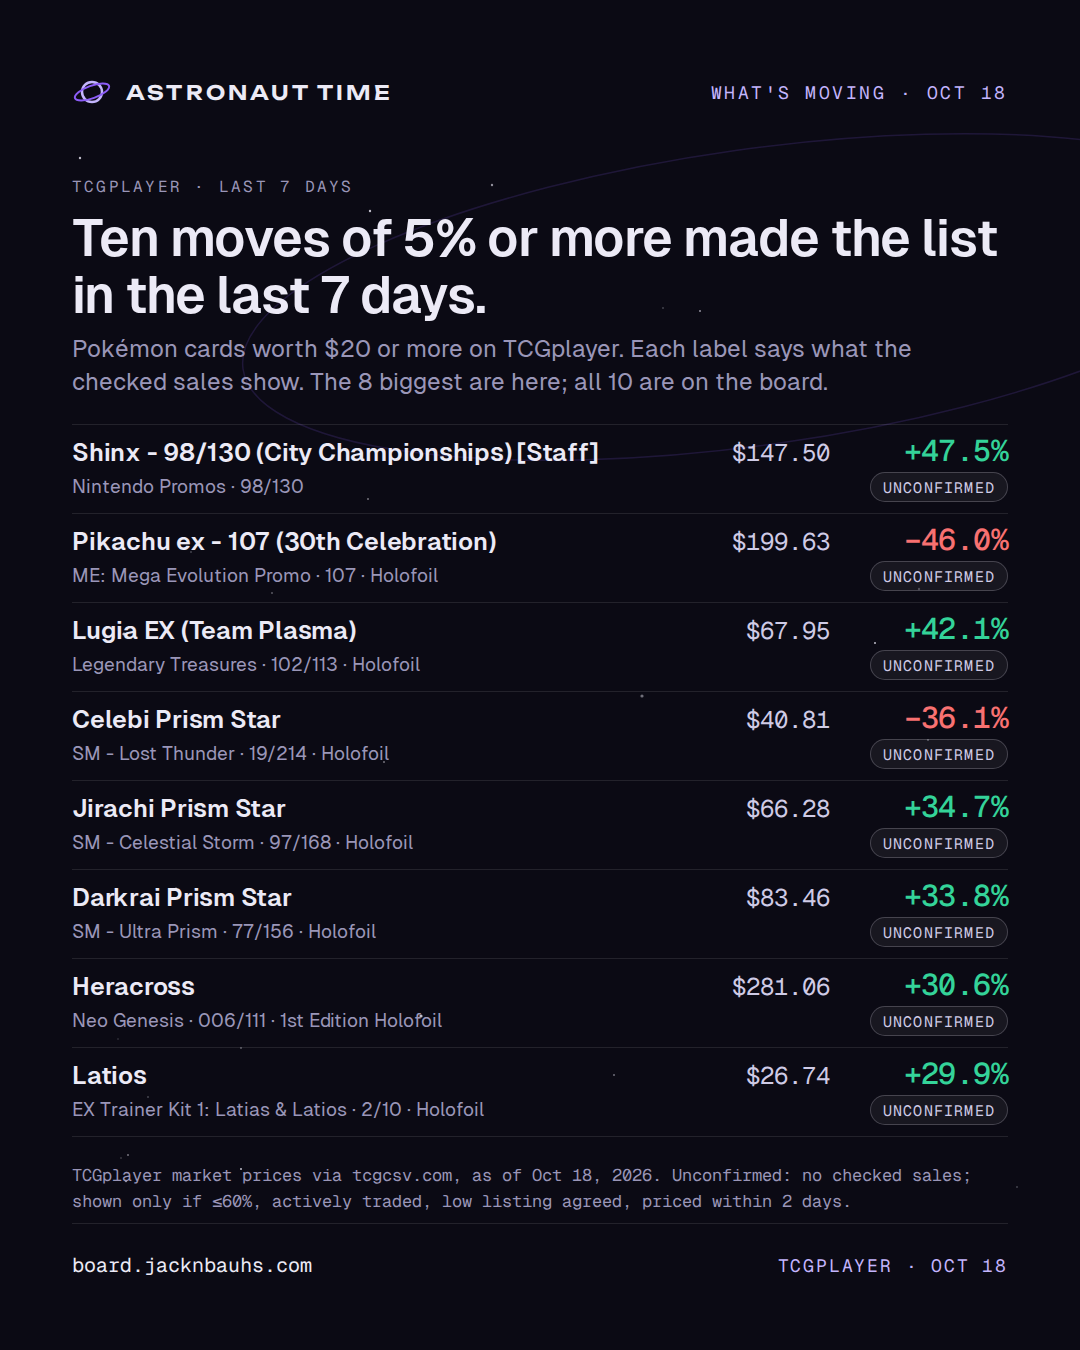
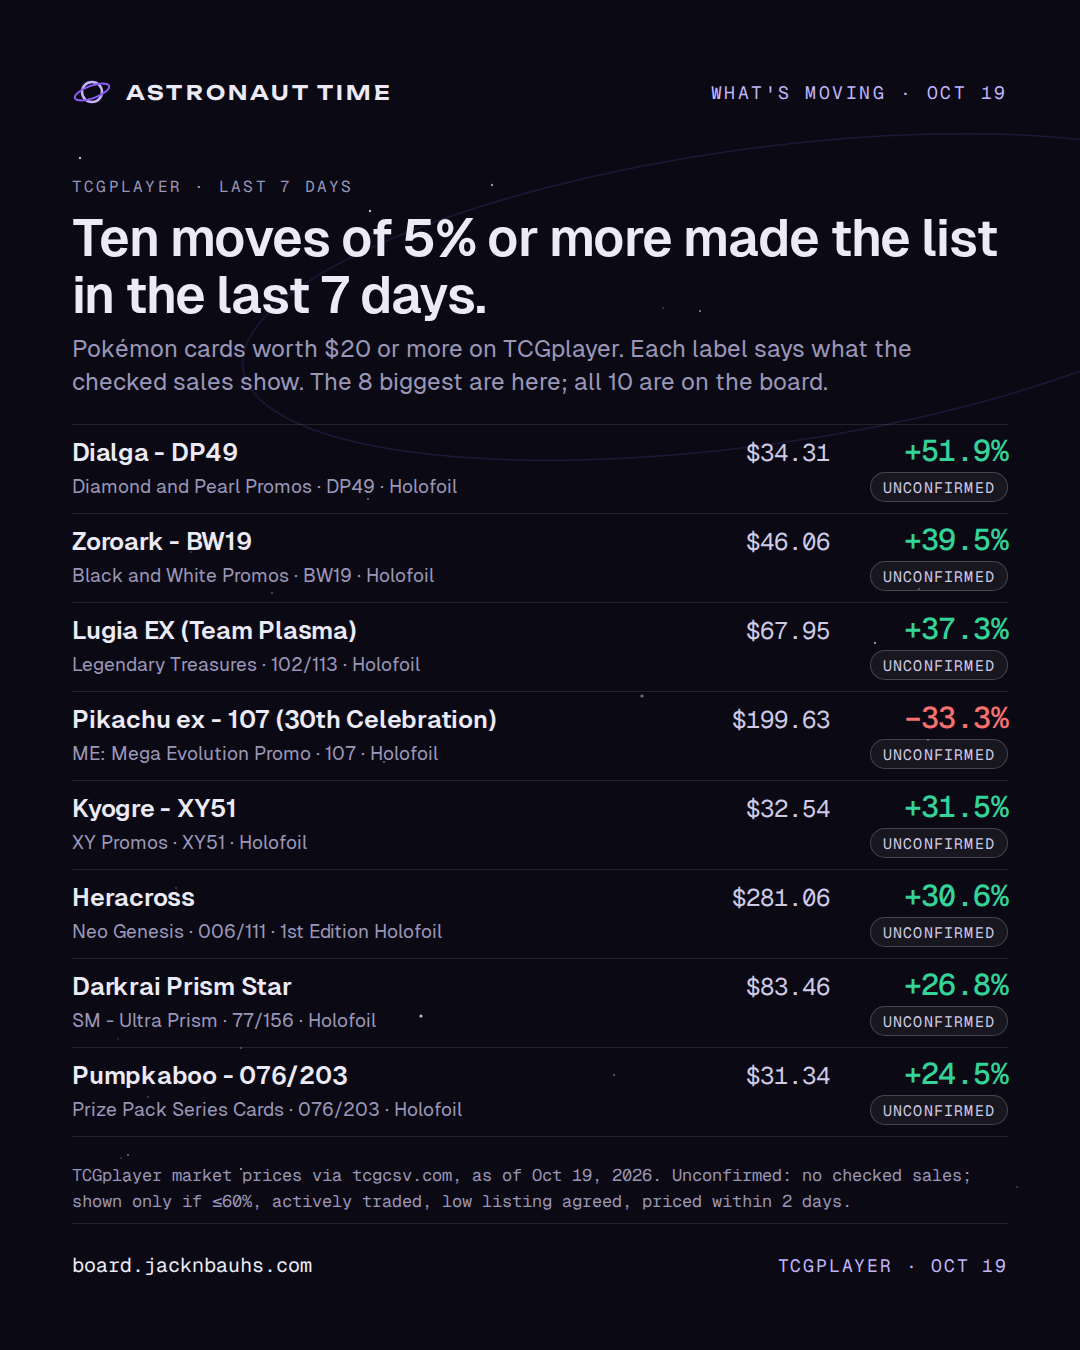
Share kit: render 2026-10-20

diff --git a/card.html b/card.html
@@ -10,14 +10,14 @@
 <meta property="og:url" content="https://board.jacknbauhs.com/card.html">
 <meta property="og:type" content="website">
 <meta property="og:site_name" content="Astronaut Time">
-<meta property="og:image" content="https://board.jacknbauhs.com/assets/og.png?v=2026-10-19">
+<meta property="og:image" content="https://board.jacknbauhs.com/assets/og.png?v=2026-10-20">
 <meta property="og:image:width" content="1200">
 <meta property="og:image:height" content="630">
 <meta property="og:image:alt" content="Mission Control by Astronaut Time: the card market, with the fake sales taken out.">
 <meta name="twitter:card" content="summary_large_image">
 <meta name="twitter:title" content="Card · Mission Control · Astronaut Time">
 <meta name="twitter:description" content="The card market, with the fake sales taken out.">
-<meta name="twitter:image" content="https://board.jacknbauhs.com/assets/og.png?v=2026-10-19">
+<meta name="twitter:image" content="https://board.jacknbauhs.com/assets/og.png?v=2026-10-20">
 <meta name="theme-color" content="#0B0A14">
 <link rel="icon" href="assets/favicon.svg" type="image/svg+xml">
 <link rel="preconnect" href="https://fonts.googleapis.com">

diff --git a/404.html b/404.html
@@ -10,14 +10,14 @@
 <meta property="og:url" content="https://board.jacknbauhs.com/">
 <meta property="og:type" content="website">
 <meta property="og:site_name" content="Astronaut Time">
-<meta property="og:image" content="https://board.jacknbauhs.com/assets/og.png?v=2026-10-19">
+<meta property="og:image" content="https://board.jacknbauhs.com/assets/og.png?v=2026-10-20">
 <meta property="og:image:width" content="1200">
 <meta property="og:image:height" content="630">
 <meta property="og:image:alt" content="Mission Control by Astronaut Time: the card market, with the fake sales taken out.">
 <meta name="twitter:card" content="summary_large_image">
 <meta name="twitter:title" content="Mission Control · Astronaut Time">
 <meta name="twitter:description" content="The card market, with the fake sales taken out.">
-<meta name="twitter:image" content="https://board.jacknbauhs.com/assets/og.png?v=2026-10-19">
+<meta name="twitter:image" content="https://board.jacknbauhs.com/assets/og.png?v=2026-10-20">
 <meta name="theme-color" content="#0B0A14">
 <link rel="icon" href="/assets/favicon.svg" type="image/svg+xml">
 <link rel="preconnect" href="https://fonts.googleapis.com">

diff --git a/index.html b/index.html
@@ -10,14 +10,14 @@
 <meta property="og:url" content="https://board.jacknbauhs.com/">
 <meta property="og:type" content="website">
 <meta property="og:site_name" content="Astronaut Time">
-<meta property="og:image" content="https://board.jacknbauhs.com/assets/og.png?v=2026-10-19">
+<meta property="og:image" content="https://board.jacknbauhs.com/assets/og.png?v=2026-10-20">
 <meta property="og:image:width" content="1200">
 <meta property="og:image:height" content="630">
 <meta property="og:image:alt" content="Mission Control by Astronaut Time: the card market, with the fake sales taken out.">
 <meta name="twitter:card" content="summary_large_image">
 <meta name="twitter:title" content="Mission Control · Astronaut Time">
 <meta name="twitter:description" content="The card market, with the fake sales taken out.">
-<meta name="twitter:image" content="https://board.jacknbauhs.com/assets/og.png?v=2026-10-19">
+<meta name="twitter:image" content="https://board.jacknbauhs.com/assets/og.png?v=2026-10-20">
 <meta name="theme-color" content="#0B0A14">
 <link rel="icon" href="assets/favicon.svg" type="image/svg+xml">
 <link rel="preconnect" href="https://fonts.googleapis.com">

diff --git a/share/out/captions.md b/share/out/captions.md
@@ -1,10 +1,10 @@
-# Captions, board data of 2026-10-19
+# Captions, board data of 2026-10-20
 
 One block per image. Caption first, alt text second. Plain facts, the source and the board link; nothing here is a buy.
 
 ## Before you post
 
-- ✅ Prices are from Oct 18, 2026.
+- ✅ Prices are from Oct 19, 2026.
 - ⚠ All 10 on the 7-day list are unconfirmed: no checked sale behind any. Keep "unconfirmed" in the post and call them price moves, not sales.
 - ⚠ All 10 on the since-yesterday list are unconfirmed: no checked sale behind any. Keep "unconfirmed" in the post and call them price moves, not sales.
 
@@ -44,8 +44,8 @@ Three calls on the record. #001: The 30th Celebration Booster Bundle's premium c
 
 Alt: Three calls on the record. Number 001: The 30th Celebration Booster Bundle's premium collapses once it ships Oct 2. The ETB holds its premium better. Number 002: Base Set Charizard PSA 10 holds its price. The graded population is closed, so the reprint can't enter it. Number 003: Raw Base Set Charizard is down 10% or more by Oct 30. The reprint lands on the raw copies.
 
-## moving-2026-W42.png
+## moving-2026-W43.png
 
-What's moving on TCGplayer, as of Oct 18, 2026. Ten moves of 5% or more made the list in the last 7 days. Shinx - 98/130 (City Championships) [Staff] (Nintendo Promos · 98/130): $147.50, +47.5%, unconfirmed. Pikachu ex - 107 (30th Celebration) (ME: Mega Evolution Promo · 107 · Holofoil): $199.63, −46.0%, unconfirmed. Lugia EX (Team Plasma) (Legendary Treasures · 102/113 · Holofoil): $67.95, +42.1%, unconfirmed. Celebi Prism Star (SM - Lost Thunder · 19/214 · Holofoil): $40.81, −36.1%, unconfirmed. Jirachi Prism Star (SM - Celestial Storm · 97/168 · Holofoil): $66.28, +34.7%, unconfirmed. Darkrai Prism Star (SM - Ultra Prism · 77/156 · Holofoil): $83.46, +33.8%, unconfirmed. Heracross (Neo Genesis · 006/111 · 1st Edition Holofoil): $281.06, +30.6%, unconfirmed. Latios (EX Trainer Kit 1: Latias & Latios · 2/10 · Holofoil): $26.74, +29.9%, unconfirmed. Unconfirmed: no checked sales; shown only if ≤60%, actively traded, low listing agreed, priced within 2 days. Source: TCGplayer market prices via tcgcsv.com, as of Oct 18, 2026. board.jacknbauhs.com
+What's moving on TCGplayer, as of Oct 19, 2026. Ten moves of 5% or more made the list in the last 7 days. Dialga - DP49 (Diamond and Pearl Promos · DP49 · Holofoil): $34.31, +51.9%, unconfirmed. Zoroark - BW19 (Black and White Promos · BW19 · Holofoil): $46.06, +39.5%, unconfirmed. Lugia EX (Team Plasma) (Legendary Treasures · 102/113 · Holofoil): $67.95, +37.3%, unconfirmed. Pikachu ex - 107 (30th Celebration) (ME: Mega Evolution Promo · 107 · Holofoil): $199.63, −33.3%, unconfirmed. Kyogre - XY51 (XY Promos · XY51 · Holofoil): $32.54, +31.5%, unconfirmed. Heracross (Neo Genesis · 006/111 · 1st Edition Holofoil): $281.06, +30.6%, unconfirmed. Darkrai Prism Star (SM - Ultra Prism · 77/156 · Holofoil): $83.46, +26.8%, unconfirmed. Pumpkaboo - 076/203 (Prize Pack Series Cards · 076/203 · Holofoil): $31.34, +24.5%, unconfirmed. Unconfirmed: no checked sales; shown only if ≤60%, actively traded, low listing agreed, priced within 2 days. Source: TCGplayer market prices via tcgcsv.com, as of Oct 19, 2026. board.jacknbauhs.com
 
 Alt: What's moving: the 8 biggest of the 10 TCGplayer moves on the list in the last 7 days, each with its market price, its change and the label for what checked sales show.
